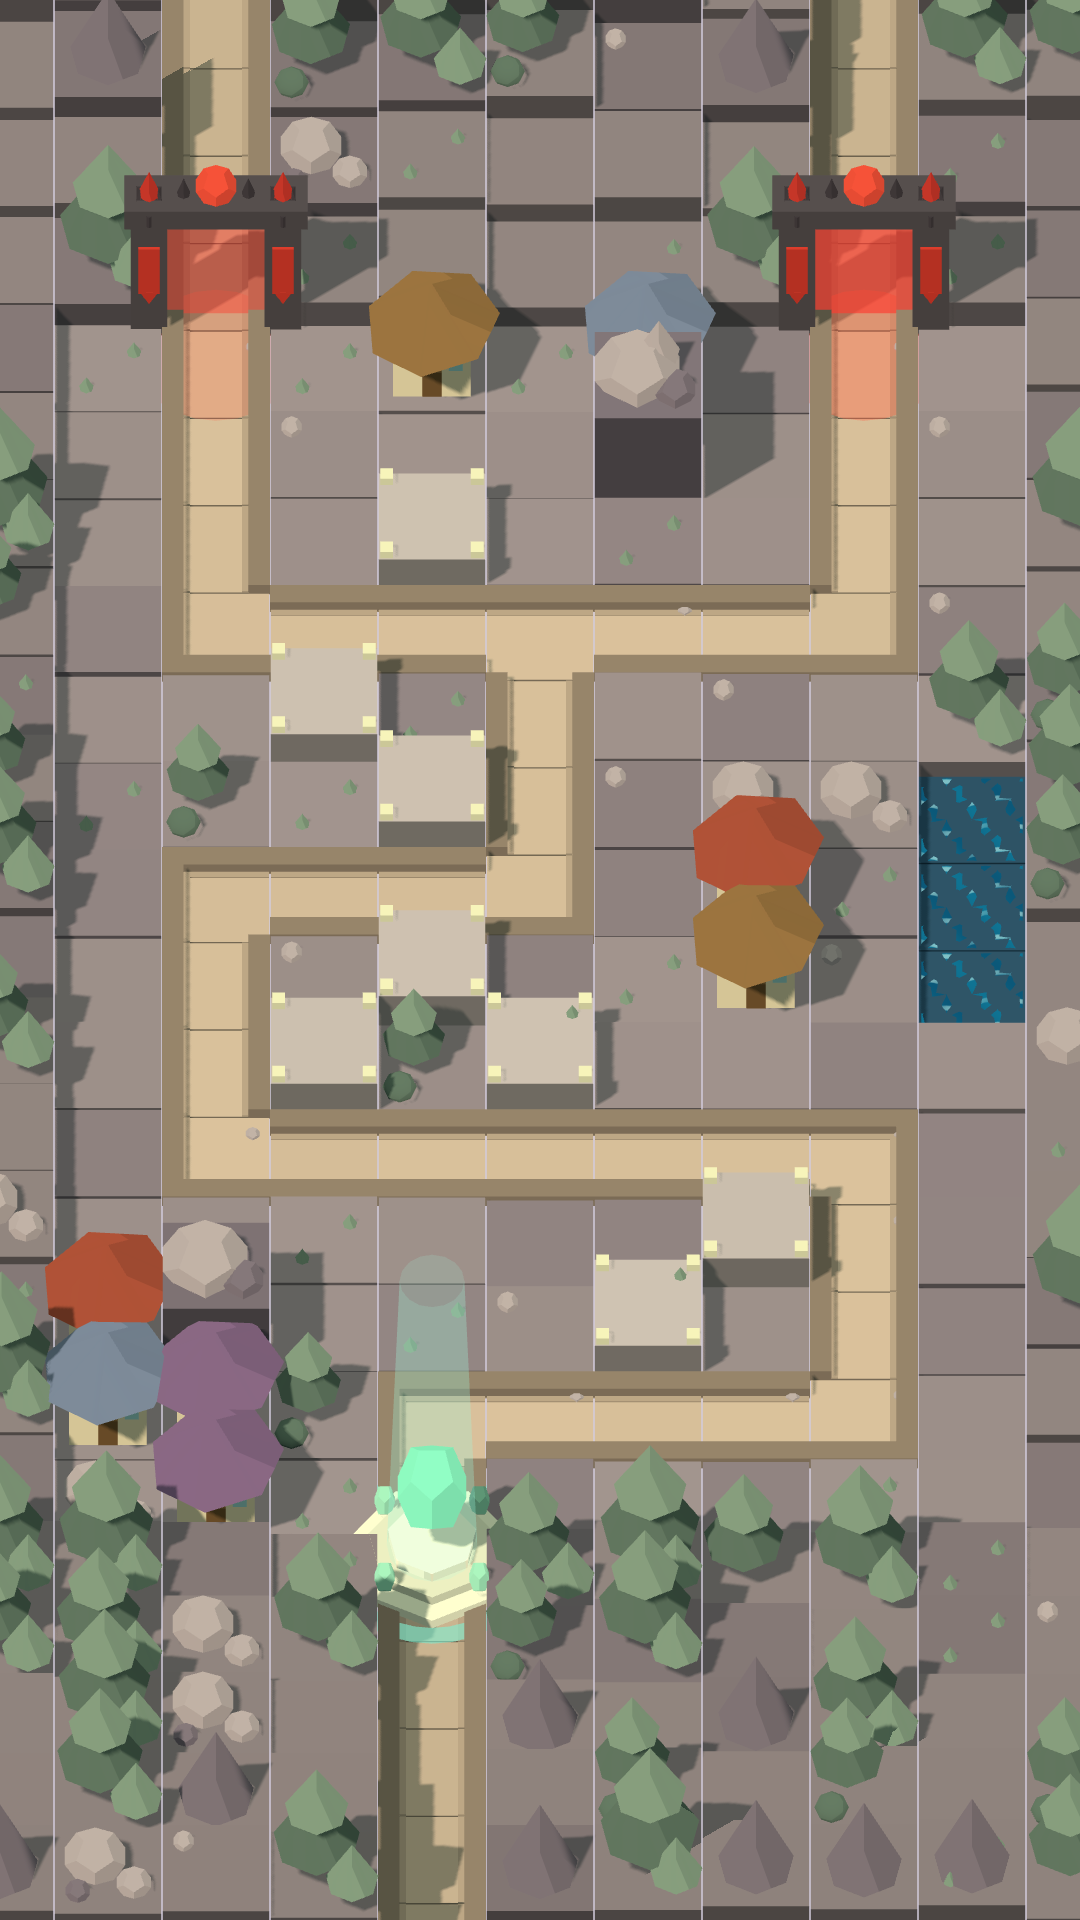
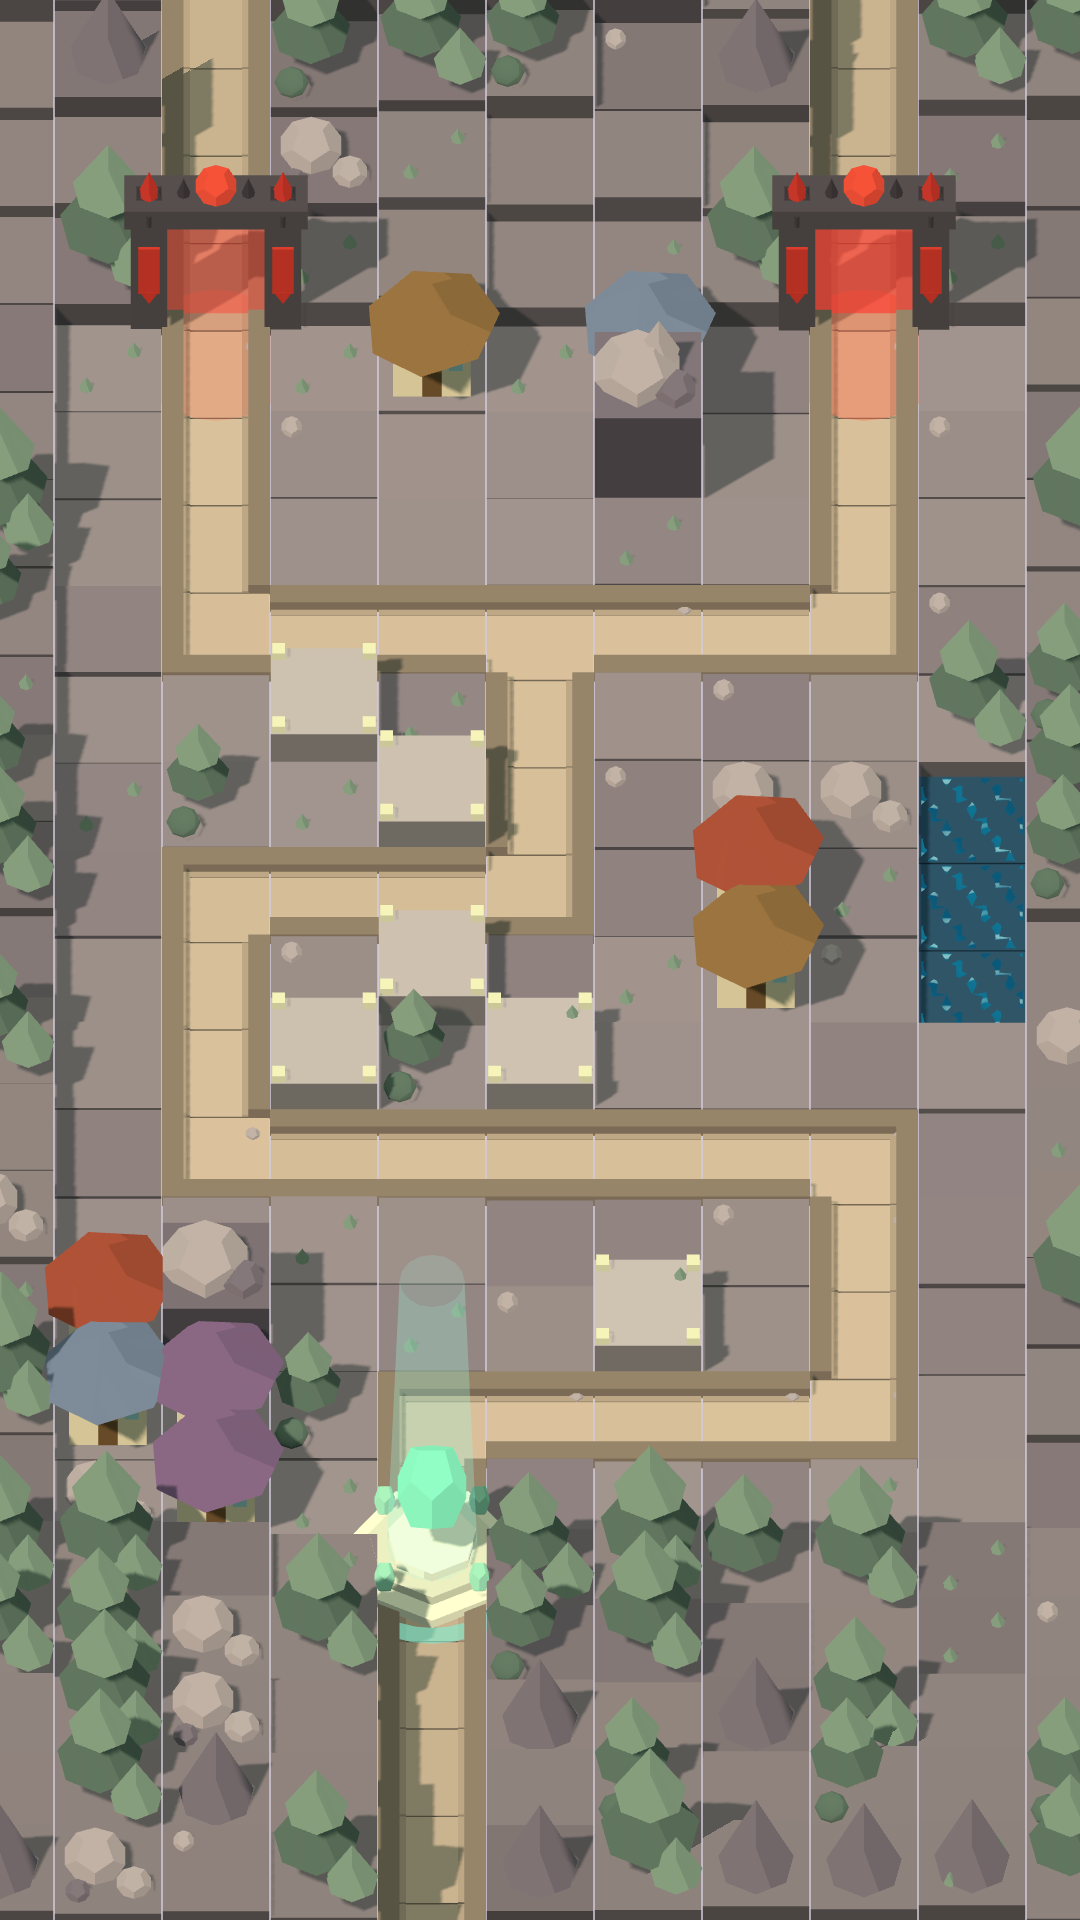
v1.6.13: retire surplus high-ground pedestals (4/4/5/7/6…) with repainted maps; drop the repaint kit
Claude-Session: https://claude.ai/code/session_01Gn8peP3jwhA6eefzP5AmAn

Changed region(s): [[0.6417, 0.5938, 0.7944, 0.6875], [0.3361, 0.2188, 0.4889, 0.3125]]

diff --git a/js/data.js b/js/data.js
@@ -199,25 +199,25 @@ const SCENES={
 };
 const MAPS={
  prologue:{scene:'ruin',seed:11,w:9,h:9,paths:[[[1,-1],[1,1],[7,1],[7,4],[1,4],[1,7],[5,7],[5,9]]],
-  slow:[{path:0,from:12,to:14,type:'swamp'}],lakes:[[8,7.6,1.3]],high:6,forest:6,cliff:1,prop:2,rock:3},
+  slow:[{path:0,from:12,to:14,type:'swamp'}],lakes:[[8,7.6,1.3]],noHigh:[[6,3],[2,6]],high:6,forest:6,cliff:1,prop:2,rock:3},
  fort:{scene:'fort',seed:23,w:9,h:10,paths:[[[9,1],[1,1],[1,4],[7,4],[7,7],[2,7],[2,10]]],
-  slow:[{path:0,from:13,to:16,type:'sand'}],lakes:[[8,9,1.2]],high:6,forest:4,cliff:3,prop:3,rock:4},
+  slow:[{path:0,from:13,to:16,type:'sand'}],lakes:[[8,9,1.2]],noHigh:[[6,5],[2,3]],high:6,forest:4,cliff:3,prop:3,rock:4},
  river:{scene:'river',seed:37,w:9,h:11,paths:[[[4,-1],[4,1],[1,1],[1,4],[7,4],[7,7],[2,7],[2,9],[6,9],[6,11]]],
-  rivers:[{row:5,from:3,to:8}],lakes:[[0,9.5,1.2]],high:7,forest:5,cliff:4,prop:2,rock:4},
+  rivers:[{row:5,from:3,to:8}],lakes:[[0,9.5,1.2]],noHigh:[[6,8],[2,3]],high:7,forest:5,cliff:4,prop:2,rock:4},
  forest:{scene:'forest',seed:41,w:9,h:12,paths:[[[7,-1],[7,2],[1,2],[1,5],[5,5],[5,8],[1,8],[1,10],[6,10],[6,12]]],
   slow:[{path:0,from:5,to:8,type:'swamp'},{path:0,from:19,to:21,type:'swamp'}],lakes:[[7,7,1.3]],high:7,forest:12,cliff:2,prop:4,rock:3},
  city:{scene:'city',seed:53,paths:[[[1,-1],[1,3],[4,3],[4,6],[1,6],[1,9],[7,9],[7,12],[3,12],[3,14]],[[7,-1],[7,3],[4,3],[4,6],[1,6],[1,9],[7,9],[7,12],[3,12],[3,14]]],
-  rivers:[{col:8,from:5,to:7}],high:8,forest:4,cliff:2,prop:8,rock:3},
+  rivers:[{col:8,from:5,to:7}],noHigh:[[3,2],[6,10]],high:8,forest:4,cliff:2,prop:8,rock:3},
  plain:{scene:'camp',seed:67,paths:[[[-1,1],[6,1],[6,4],[2,4],[2,7],[7,7],[7,10],[1,10],[1,12],[5,12],[5,14]]],
-  slow:[{path:0,from:22,to:25,type:'sand'}],lakes:[[0,5,1.4],[8,13,1.2]],high:8,forest:6,cliff:2,prop:5,rock:5},
+  slow:[{path:0,from:22,to:25,type:'sand'}],lakes:[[0,5,1.4],[8,13,1.2]],noHigh:[[5,2],[3,11]],high:8,forest:6,cliff:2,prop:5,rock:5},
  ruins:{scene:'crystal',seed:79,paths:[[[4,-1],[4,2],[7,2],[7,5],[1,5],[1,8],[4,8],[4,10],[7,10],[7,12],[2,12],[2,14]]],
-  rivers:[{row:6,from:0,to:5},{row:11,from:5,to:8}],high:8,forest:6,cliff:3,prop:6,rock:4},
+  rivers:[{row:6,from:0,to:5},{row:11,from:5,to:8}],noHigh:[[6,1],[2,9]],high:8,forest:6,cliff:3,prop:6,rock:4},
  tower:{scene:'tower',seed:83,paths:[[[-1,1],[7,1],[7,12],[1,12],[1,4],[5,4],[5,9],[3,9],[3,6]]],
-  slow:[{path:0,from:26,to:29,type:'swamp'}],high:8,noHigh:[[3,5]],forest:4,cliff:3,prop:4,rock:4},
+  slow:[{path:0,from:26,to:29,type:'swamp'}],high:8,noHigh:[[3,5],[6,8]],forest:4,cliff:3,prop:4,rock:4},
  capital:{scene:'wall',seed:97,paths:[[[0,-1],[0,3],[3,3],[3,6],[6,6],[6,9],[2,9],[2,12],[6,12],[6,14]],[[8,-1],[8,3],[6,3],[6,6],[6,9],[2,9],[2,12],[6,12],[6,14]]],
-  rivers:[{row:10,from:4,to:8}],high:8,forest:4,cliff:3,prop:7,rock:3},
+  rivers:[{row:10,from:4,to:8}],noHigh:[[7,5],[2,4]],high:8,forest:4,cliff:3,prop:7,rock:3},
  core:{scene:'core',seed:101,paths:[[[4,-1],[4,1],[1,1],[1,3],[7,3],[7,6],[1,6],[1,9],[7,9],[7,12],[4,12],[4,14]]],
-  slow:[{path:0,from:16,to:19,type:'swamp'}],lakes:[[4,7.6,1.1],[8,0,1.2]],high:8,forest:7,cliff:3,prop:7,rock:3}
+  slow:[{path:0,from:16,to:19,type:'swamp'}],lakes:[[4,7.6,1.1],[8,0,1.2]],noHigh:[[6,11],[2,7]],high:8,forest:7,cliff:3,prop:7,rock:3}
 };
 
 // ── Bosses (battle 10 of each chapter) ──────────────────────────────────────────────────────────────

diff --git a/revisions.html b/revisions.html
@@ -8,8 +8,8 @@
 <style>
 :root{color-scheme:dark;--bg:#0d1a1e;--card:#1f373d;--line:#ffffff1c;--ink:#e6eee6;--muted:#94aaa7;--gold:#f2cf72;--mint:#8fe5b4}
 *{box-sizing:border-box}
-@font-face{font-family:"Stylish";src:url("fonts/stylish.woff2?v=35") format("woff2");font-display:swap;size-adjust:118%}
-@font-face{font-family:"Gowun Dodum";src:url("fonts/gowun-dodum.woff2?v=35") format("woff2");font-display:swap;size-adjust:104%}
+@font-face{font-family:"Stylish";src:url("fonts/stylish.woff2?v=36") format("woff2");font-display:swap;size-adjust:118%}
+@font-face{font-family:"Gowun Dodum";src:url("fonts/gowun-dodum.woff2?v=36") format("woff2");font-display:swap;size-adjust:104%}
 body{margin:0;background:var(--bg);color:var(--ink);font:15px/1.65 "Gowun Dodum",-apple-system,BlinkMacSystemFont,"Segoe UI","Apple SD Gothic Neo","Malgun Gothic",sans-serif;padding:calc(16px + env(safe-area-inset-top)) 16px calc(32px + env(safe-area-inset-bottom))}
 main{max-width:680px;margin:0 auto}
 a{color:var(--gold)}
@@ -36,8 +36,13 @@ details.rev summary{cursor:pointer}
 <h1>Revision History</h1>
 <p class="lead">큰 변화는 두 번째 자리(1.1.0), 작은 수정은 세 번째 자리(1.0.1)를 올립니다.</p>
 
+<section class="rev" id="v1.6.13">
+<h2>ver.1.6.13 <span class="date">2026-11-26</span> <span class="tag">현재</span></h2>
+<h3>밸런스</h3><ul><li>원거리 발판을 원거리 동료 수에 맞게 줄였습니다 — 프롤로그 · 1장 4칸, 2장 5칸, 3장 7칸(그대로), 4장부터 6칸. 길을 가장 적게 내려다보던 발판을 없애고 전장 그림에서도 그 자리를 평지로 고쳐 그렸습니다. 어느 발판에 누구를 세울지가 더 중요해졌습니다</li></ul>
+</section>
+
 <section class="rev" id="v1.6.12">
-<h2>ver.1.6.12 <span class="date">2026-11-23</span> <span class="tag">현재</span></h2>
+<h2>ver.1.6.12 <span class="date">2026-11-23</span></h2>
 <h3>변경</h3><ul><li>보스 체력바를 전장 위쪽에 크게 따로 보여 줍니다 — 보스 이름 · 속성 · 남은 체력 숫자와 함께, 맞으면 깎인 만큼 밝게 남았다가 줄어듭니다. 보스 머리 위의 작은 체력바는 없앴습니다</li></ul>
 </section>
 

diff --git a/index.html b/index.html
@@ -13,8 +13,8 @@
 <meta name="apple-mobile-web-app-title" content="cnation TD">
 <meta name="apple-mobile-web-app-status-bar-style" content="black">
 <style>
-@font-face{font-family:"Stylish";src:url("fonts/stylish.woff2?v=35") format("woff2");font-weight:400;font-style:normal;font-display:swap;size-adjust:118%}
-@font-face{font-family:"Gowun Dodum";src:url("fonts/gowun-dodum.woff2?v=35") format("woff2");font-weight:400;font-style:normal;font-display:swap;size-adjust:104%}
+@font-face{font-family:"Stylish";src:url("fonts/stylish.woff2?v=36") format("woff2");font-weight:400;font-style:normal;font-display:swap;size-adjust:118%}
+@font-face{font-family:"Gowun Dodum";src:url("fonts/gowun-dodum.woff2?v=36") format("woff2");font-weight:400;font-style:normal;font-display:swap;size-adjust:104%}
 :root{--font-display:"Stylish",system-ui,-apple-system,"Apple SD Gothic Neo","Malgun Gothic",sans-serif;--font-body:"Gowun Dodum",system-ui,-apple-system,"Apple SD Gothic Neo","Malgun Gothic",sans-serif;--bg:#16282d;--panel:#1f373d;--panel2:#284850;--line:#3c636b;--ink:#eef4ea;--dim:#a9c0bb;--gold:#f2cf72;--good:#8fe5b4;--bad:#f08f7c;--accent:#8be1bf}
 *{box-sizing:border-box;-webkit-tap-highlight-color:transparent}
 html,body{margin:0;height:100%;overflow:hidden;background:#0d1a1e;color:var(--ink);font-family:var(--font-display);overscroll-behavior:none;touch-action:none;user-select:none;-webkit-user-select:none}
@@ -261,10 +261,10 @@ html,body{margin:0;height:100%;overflow:hidden;background:#0d1a1e;color:var(--in
  <div id="modal" hidden></div>
 </div>
 <script src="vendor/three-r170.js"></script>
-<script src="js/data.js?v=1.6.12"></script>
-<script src="js/sim.js?v=1.6.12"></script>
-<script src="js/models.js?v=1.6.12"></script>
-<script src="js/game.js?v=1.6.12"></script>
+<script src="js/data.js?v=1.6.13"></script>
+<script src="js/sim.js?v=1.6.13"></script>
+<script src="js/models.js?v=1.6.13"></script>
+<script src="js/game.js?v=1.6.13"></script>
 <script>if('serviceWorker' in navigator&&location.protocol!=='file:')window.addEventListener('load',()=>navigator.serviceWorker.register('sw.js').catch(()=>{}));</script>
 </body>
 </html>

diff --git a/sw.js b/sw.js
@@ -1,6 +1,6 @@
 // cnation TD service worker: lets the game be added to the home screen and opened offline.
 // Network first, so a new deploy shows up on the next open; the cache is only a fallback. Music is cache-first (large, never changes).
-const VERSION='1.6.12',CACHE='cnation-td-'+VERSION;
+const VERSION='1.6.13',CACHE='cnation-td-'+VERSION;
 const CORE=['./','index.html','manifest.webmanifest','vendor/three-r170.js','js/data.js','js/sim.js','js/models.js','js/game.js','fonts/stylish.woff2','fonts/gowun-dodum.woff2','icons/icon-192.png','icons/icon-512.png','icons/apple-touch-icon.png','icons/favicon-64.png','revisions.html'];
 self.addEventListener('install',e=>{e.waitUntil(caches.open(CACHE).then(c=>c.addAll(CORE)).catch(()=>{}));self.skipWaiting();});
 self.addEventListener('activate',e=>{e.waitUntil(caches.keys().then(keys=>Promise.all(keys.filter(k=>k.startsWith('cnation-td-')&&k!==CACHE).map(k=>caches.delete(k)))).then(()=>self.clients.claim()));});

diff --git a/js/game.js b/js/game.js
@@ -2,7 +2,7 @@
 // All rules live in sim.js; this file only sends commands to it and draws what it reports.
 (function(){
 const THREE=CNATION3D,D=TDData,M=TDModels,{createSim,TERRAIN_NAME}=TDSim;
-const GAME_VERSION='1.6.12',SAVE_KEY='cnation-td-save-v2',LEGACY_KEY='cnation-td-legacy-v1',SLOT_KEY='cnation-td-slots-v1',CLEAR_KEY='cnation-td-clear-v1',SET_KEY='cnation-td-settings-v1',SLOTS=3;
+const GAME_VERSION='1.6.13',SAVE_KEY='cnation-td-save-v2',LEGACY_KEY='cnation-td-legacy-v1',SLOT_KEY='cnation-td-slots-v1',CLEAR_KEY='cnation-td-clear-v1',SET_KEY='cnation-td-settings-v1',SLOTS=3;
 const $=s=>document.querySelector(s),app=$('#app'),viewport=$('#viewport'),glc=$('#gl'),fxc=$('#fx'),ctx=fxc.getContext('2d');
 const ELEV=54*Math.PI/180,SIN=Math.sin(ELEV),COS=Math.cos(ELEV);
 const EL_COLOR={fire:'#ff8a3d',water:'#6fd0ff',ice:'#a9ecff',wind:'#a6f2c6',thunder:'#ffe66b',light:'#fff3b0',dark:'#c7a3ff'};

diff --git a/CLAUDE.md b/CLAUDE.md
@@ -57,7 +57,9 @@ Unless the owner says otherwise, every finished change is committed, pushed to t
   become invisible shadow catchers (flat tile tops only); gate arch, crystal dais, trees and water are not drawn (only the gate glow and crystal beam/halo).
   `node tools/make-guides.js` renders `art/guides/<map>.png/.json`; `python3 tools/fit-art.py <map> <file> [--apply]` finds the frame
   inside a painting, writes `art/check/<map>.png` (tile outlines) and installs it. Re-make the guides (and repaint) if a map layout changes.
-  `MAPS[id].noHigh` turns listed high cells back into grass after the map is grown (rest of the map unchanged) — used where a painting hides a cell (tower: behind the crystal).
+  `MAPS[id].noHigh` turns listed high cells back into grass after the map is grown (rest of the map unchanged) — used where a painting
+  hides a cell (tower: behind the crystal) and (1.6.13) to retire surplus pedestals: high = prologue/fort 4, river 5, forest 7, the
+  rest 6 (≈ max ranged units + 1–2). Those paintings were repainted with the pedestals turned into ground (docs/REPAINT.md).
 - Waves use half as many monsters with twice the HP and twice the gold each (`buildChapter`, `spawn`).
 - Sound: one Web Audio context (`audioCtx`). Music is fetched and decoded into mono 22 kHz AudioBuffers (`bgm.load`, at most 3 kept) and played
   through gain nodes — <audio>.volume does not work on iPhone. `bgm/*.webm` (Opus) first, `bgm/*.m4a` (AAC copy) when WebM cannot be decoded,

diff --git a/README.md b/README.md
@@ -3,7 +3,7 @@
 cnation TACTICS(아르카 연대기)의 영웅·몬스터·지형으로 만든 세로형 모바일 디펜스 게임입니다.
 탑 대신 **동료를 전장에 세워** 길을 따라 밀려오는 몬스터를 막습니다.
 
-- 현재 버전: **ver.1.6.12** — 프롤로그부터 FINAL까지 전체 10장, 영웅 6명·병사 5종·몬스터 30종·보스 10종
+- 현재 버전: **ver.1.6.13** — 프롤로그부터 FINAL까지 전체 10장, 영웅 6명·병사 5종·몬스터 30종·보스 10종
 - 기획안: [`docs/GDD.md`](docs/GDD.md)
 
 ## 실행

diff --git a/docs/REPAINT.md b/docs/REPAINT.md
@@ -1,4 +1,6 @@
-# 원거리 발판 줄이기 — 그림 부분 수정
+# 원거리 발판 줄이기 — 그림 부분 수정 (완료: ver.1.6.13)
+
+> 완료. 수정 그림은 art/*.webp에 반영했고, 작업용 원본 · 표시 그림(docs/repaint)은 지웠습니다(커밋 기록에는 남아 있음).
 
 발판(올라온 돌 받침)이 원거리 유닛 수보다 너무 많아 장마다 1~2칸을 없앱니다(3장은 그대로).
 없앨 받침은 길을 가장 적게 내려다보는(쓸모가 가장 적은) 것으로 골랐습니다.
